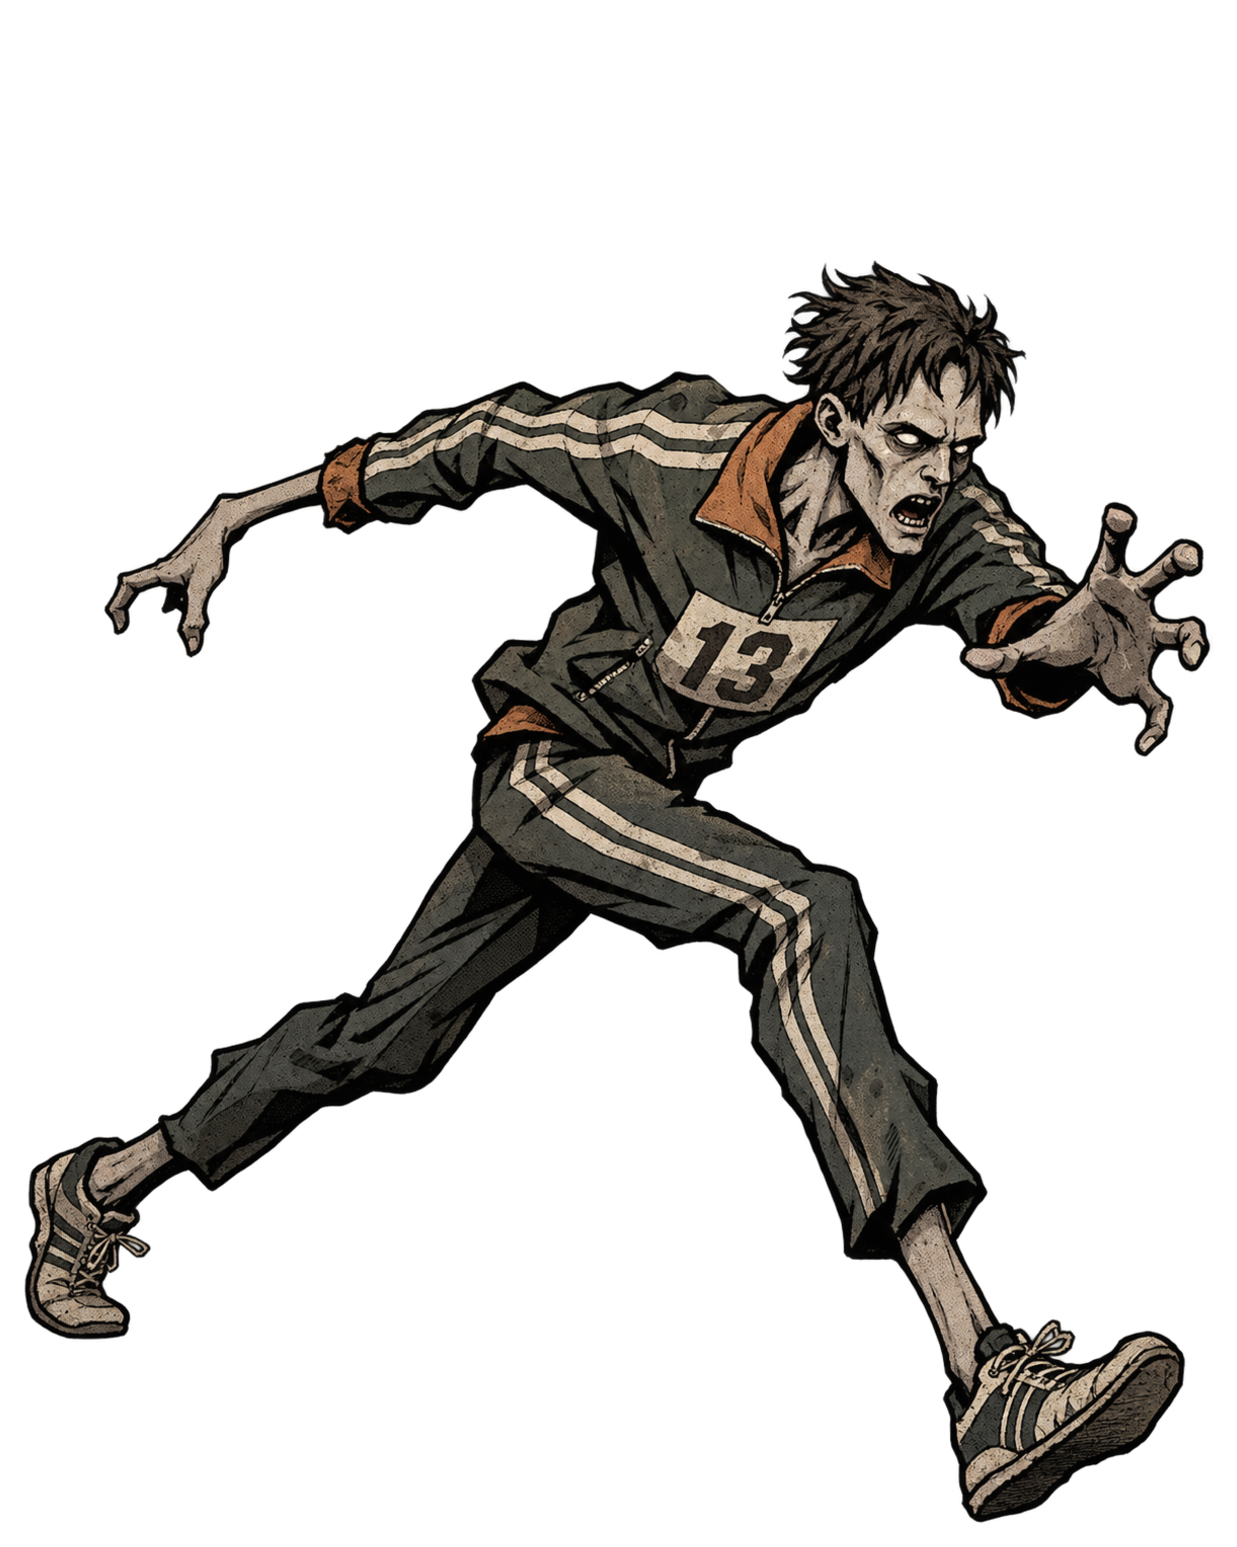
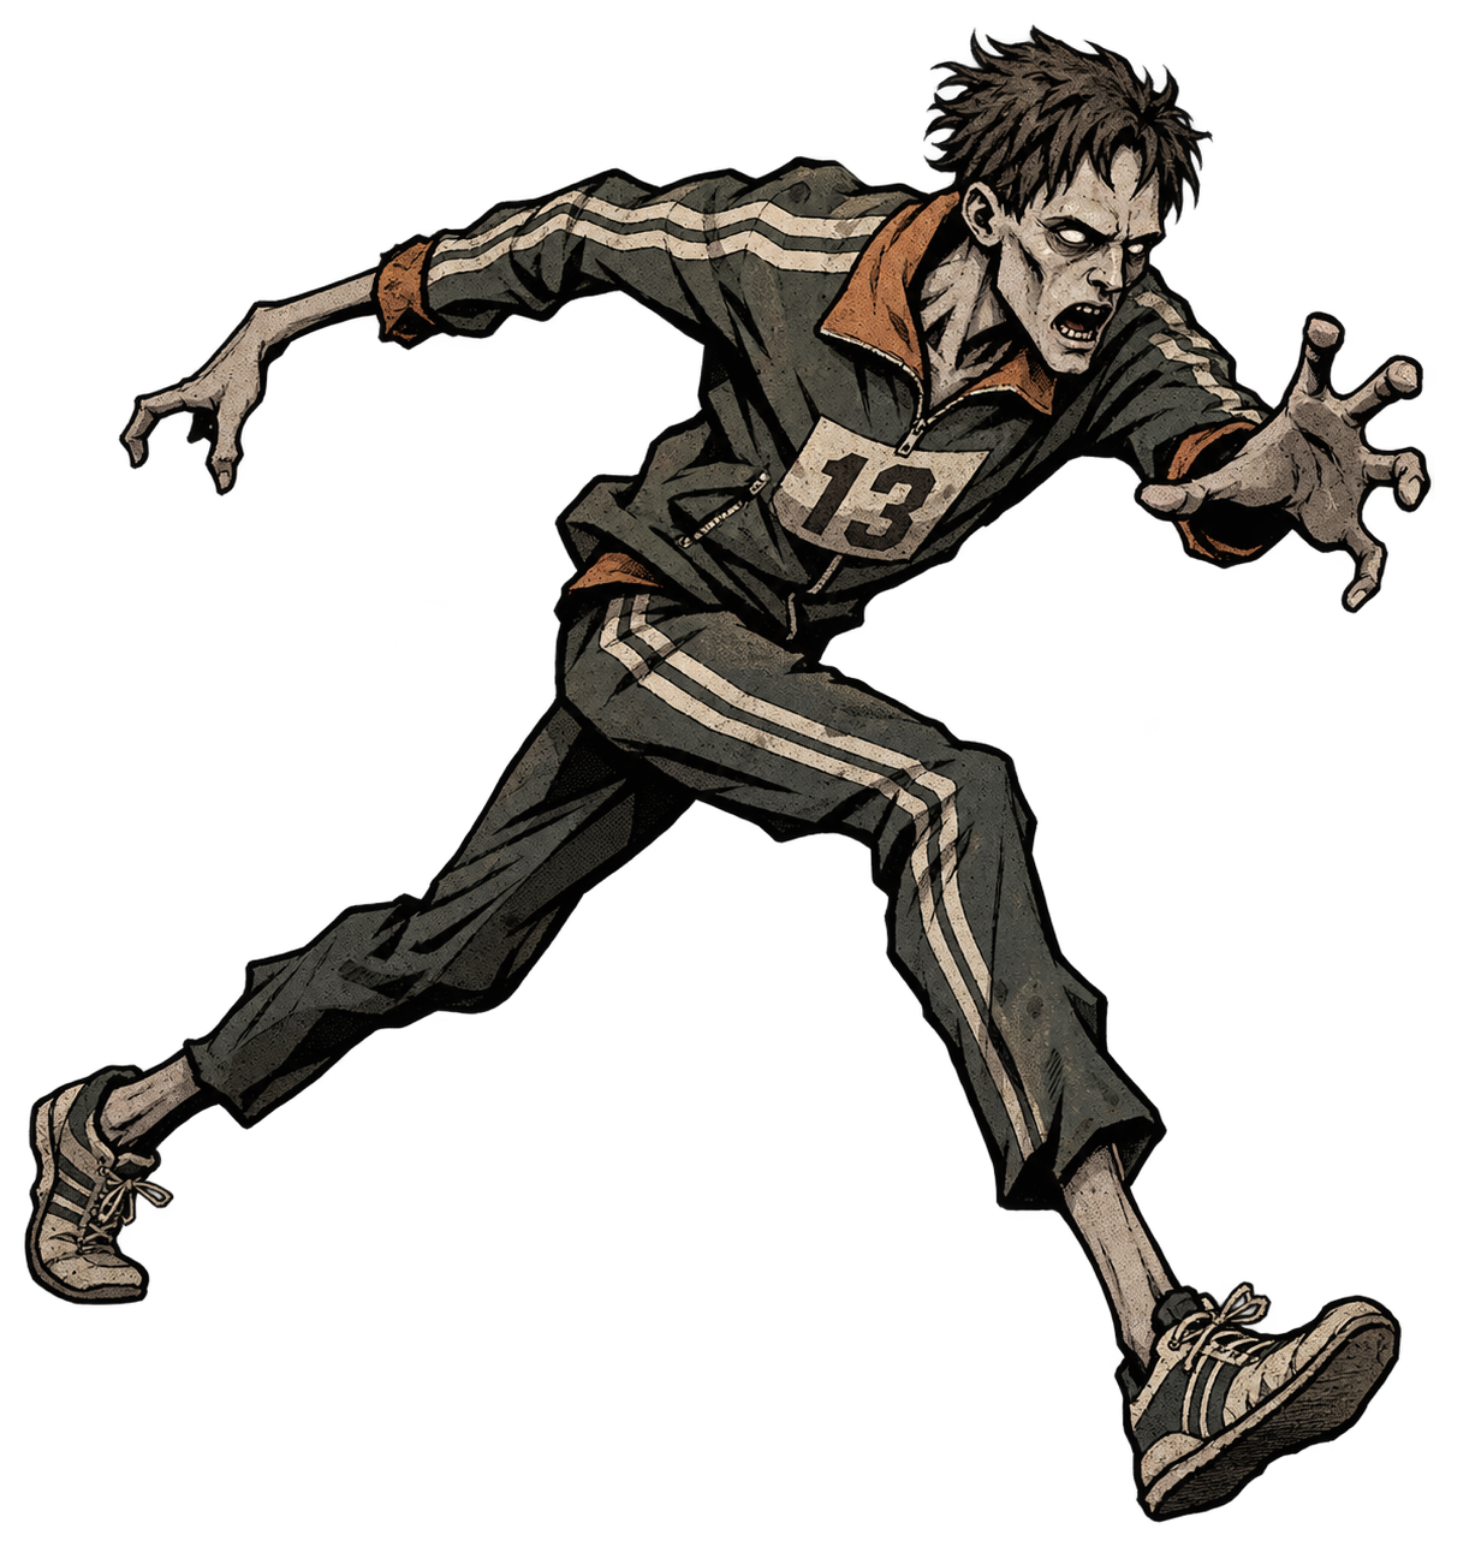
Fix W/S walk-frame flicker (face deadzone + dir hysteresis); normalize runner run frames to stand height

diff --git a/src/iso/systems/actors.js b/src/iso/systems/actors.js
@@ -15,6 +15,19 @@ export function initActors(seed) {
 // поэтому бег мельтешит чаще ходьбы, а стояние на месте не анимируется
 export const STRIDE = 2.0;
 
+// Экранный курс с мёртвой зоной и гистерезисом. При строгом W/S экранный
+// sdx = dx−dy ≈ 0 (шум округления ±1e-16): без мёртвой зоны знак шума
+// зеркалит спрайт каждый кадр, без гистерезиса дребезжит набор кадров.
+export function faceDir(sdx, sdy, prevFace = 1, prevDir = "right") {
+  const ax = Math.abs(sdx),
+    ay = Math.abs(sdy);
+  let dir = prevDir;
+  if (ax > ay * 1.2) dir = sdx >= 0 ? "right" : "left";
+  else if (ay > ax * 1.2) dir = sdy >= 0 ? "down" : "up";
+  const face = ax > 1e-4 ? (sdx >= 0 ? 1 : -1) : prevFace;
+  return { face, dir };
+}
+
 export function moveActor(city, a, dx, dy) {
   const lvl = a.level || 0;
   if (!solidRectAt(city, a.x + dx, a.y, a.r, null, lvl)) a.x += dx;
@@ -59,15 +72,9 @@ export function updatePlayer(
     if (player.moving) {
       const sdx = player.x - ox - (player.y - oy);
       const sdy = player.x - ox + (player.y - oy);
-      player.face = sdx >= 0 ? 1 : -1;
-      player.dir =
-        Math.abs(sdx) >= Math.abs(sdy)
-          ? sdx >= 0
-            ? "right"
-            : "left"
-          : sdy >= 0
-            ? "down"
-            : "up";
+      const fd = faceDir(sdx, sdy, player.face, player.dir);
+      player.face = fd.face;
+      player.dir = fd.dir;
     }
     // кламп приращения фазы: скачок dt (запечка чанка) не должен мельтешить кадры
     player.walkPh =
@@ -259,15 +266,9 @@ export function updateZombies(
       if (moved > 1e-4) {
         const sdx = z.x - ox - (z.y - oy);
         const sdy = z.x - ox + (z.y - oy);
-        z.face = sdx >= 0 ? 1 : -1;
-        z.dir =
-          Math.abs(sdx) >= Math.abs(sdy)
-            ? sdx >= 0
-              ? "right"
-              : "left"
-            : sdy >= 0
-              ? "down"
-              : "up";
+        const fd = faceDir(sdx, sdy, z.face, z.dir);
+        z.face = fd.face;
+        z.dir = fd.dir;
       }
       z.walkPh =
         (z.walkPh || 0) + (Math.min(moved, 0.1) / STRIDE) * Math.PI * 2;

diff --git a/tests/isoWalk.test.js b/tests/isoWalk.test.js
@@ -7,6 +7,7 @@ import {
   spawnZombie,
   initActors,
   alertZombie,
+  faceDir,
   STRIDE,
 } from "../src/iso/systems/actors.js";
 
@@ -64,6 +65,57 @@ describe("походка от дистанции", () => {
       updatePlayer(city, wall, { KeyD: true }, 1 / 60);
     expect(wall.moving).toBe(false);
     expect(wall.walkPh || 0).toBe(0);
+  });
+
+  it("шум sdx≈0 при строгом W/S не зеркалит спрайт каждый кадр", () => {
+    let f = 1,
+      d = "right";
+    for (let i = 0; i < 100; i++) {
+      const noise = (i % 2 ? 1 : -1) * 1e-16;
+      const r = faceDir(noise, -0.05, f, d);
+      f = r.face;
+      d = r.dir;
+      expect(r.face).toBe(1);
+      expect(r.dir).toBe("up");
+    }
+  });
+
+  it("курс классифицируется, граница держит прежнее направление", () => {
+    expect(faceDir(0.05, 0, -1, "left")).toEqual({ face: 1, dir: "right" });
+    expect(faceDir(0, 0.05, 1, "up")).toEqual({ face: 1, dir: "down" });
+    expect(faceDir(0.05, 0.05, -1, "left").dir).toBe("left");
+  });
+
+  it("интеграция: 60 кадров строгого W — не больше одной смены face", () => {
+    const city = openCity();
+    // свободный луч для экранного W = мировое (−x,−y)/√2
+    const ux = -Math.SQRT1_2,
+      uy = -Math.SQRT1_2;
+    let spot = null;
+    for (let y = 20; y < city.SIZE - 20 && !spot; y += 7)
+      for (let x = 20; x < city.SIZE - 20 && !spot; x += 7) {
+        let ok = true;
+        for (let d = 0; d <= 3.2; d += 0.4)
+          if (solidRectAt(city, x + ux * d, y + uy * d, 0.4)) {
+            ok = false;
+            break;
+          }
+        if (ok) spot = { x, y };
+      }
+    const p = { ...spot, r: 0.35, level: 0 };
+    let flips = 0,
+      last = p.face;
+    const dirs = new Set();
+    for (let i = 0; i < 60; i++) {
+      updatePlayer(city, p, { KeyW: true }, 1 / 60);
+      if (p.moving) {
+        dirs.add(p.dir);
+        if (p.face !== last) flips++;
+        last = p.face;
+      }
+    }
+    expect(flips).toBeLessThanOrEqual(1);
+    expect([...dirs]).toEqual(["up"]);
   });
 
   it("зомби накапливает фазу только когда реально идёт", () => {

diff --git a/src/iso/render/renderer.js b/src/iso/render/renderer.js
@@ -2017,7 +2017,11 @@ function drawActor(
   if (img) {
     const isBow =
       base === SPRTEX.survivor_bow_draw || base === SPRTEX.survivor_bow_release;
-    const h = (isBow ? 96 : 78) * zoom * scale; // ~2,4 м — читаемость важнее строгого масштаба (как в PZ)
+    // кадр бега бегуна нормализован по высоте контента к стойке и слегка
+    // крупнее её: бег не должен «усаживать» силуэт
+    const runK =
+      zKind === "runner" && zState === "walk" ? (zt?.runScale ?? 1) : 1;
+    const h = (isBow ? 96 : 78) * zoom * scale * runK; // ~2,4 м — читаемость важнее строгого масштаба (как в PZ)
     const w = h * (img.width / img.height);
     const aimPoint = isBow && aim ? w2s(aim.x, aim.y) : null;
     // профильные покадровые варианты смотрят по курсу движения, а не по прицелу

diff --git a/tests/isoZombies.test.js b/tests/isoZombies.test.js
@@ -33,6 +33,10 @@ function emptyCity(seed = 1) {
 }
 
 describe("типы зомби: данные и спавн", () => {
+  it("кадр бега бегуна не меньше стойки: runScale >= 1", () => {
+    expect(ZTYPES.runner.runScale).toBeGreaterThanOrEqual(1);
+  });
+
   it("смесь генерации: только ходоки и бегуны, hp по типу", () => {
     const city = createCity(11, 5);
     const types = new Set(city.zombies.map((z) => z.type));

diff --git a/src/iso/data/zombies.js b/src/iso/data/zombies.js
@@ -22,6 +22,8 @@ export const ZTYPES = {
     chaseNight: 13,
     knock: 1.2,
     scale: 0.92,
+    // кадр бега поверх нормализации к стойке: бег читается крупнее, не «усадка»
+    runScale: 1.06,
     tint: "rgba(150,60,40,0.28)",
   },
   brute: {

diff --git a/REFACTORING_PLAN.md b/REFACTORING_PLAN.md
@@ -863,3 +863,12 @@ F «Платформа Yandex Games» (отдельное решение).
 - [x] **Контроль.** `isoAssets` расширен пятью ключами (RGBA, исходник, метаданные, runtimeSize) + существование process_props.mjs. Визуальный контроль скриншотами лагеря мотеля и базы с постройками: масштаб и посадка на землю корректны.
 
 Итог: 195 unit-тестов в 33 файлах, 24 браузерных сценария, `format:check` и production build зелёные.
+
+
+### 33. Баг ходьбы W/S и масштаб кадра бега бегуна (23.11.2026, цель пользователя)
+
+- [x] **Ходьба W/S.** Телеметрия headless: при строгом W/S экранный `sdx = dx−dy ≈ 0` (шум округления ±1e-16), и `face = sdx >= 0` зеркалил спрайт каждый кадр (65 смен face за 115 кадров). Новый `faceDir(sdx, sdy, prevFace, prevDir)` в `actors.js`: мёртвая зона |sdx| > 1e-4 для face и гистерезис 1.2 для dir; применён к игроку и зомби. После фикса: 1 смена face за 116 кадров, каденс поз нормальный.
+- [x] **Бегун не «усаживается».** Контент кадра бега был 65% высоты стойки в том же канвасе. `scripts/normalize_runner_frames.mjs`: масштаб вокруг линии ступней с расширением канваса под выпад (без обрезки), низ контента на одной линии со стойкой; walk k=1.566 (1696×1551), attack k=1.202 (1459×1551); метаданные обновлены. Плюс `ZTYPES.runner.runScale = 1.06` — кадр бега слегка крупнее стойки.
+- [x] **Регрессии.** `isoWalk`: шум sdx не меняет face/dir, граница держит прежнее, интеграция 60 кадров W ≤ 1 смены face; `isoZombies`: runScale ≥ 1; e2e `cityZombies`: контент walk/attack ≥ 95% контента стойки.
+
+Итог этапа: 199 unit-тестов в 33 файлах, 25 браузерных сценариев, `format:check` и production build зелёные.
